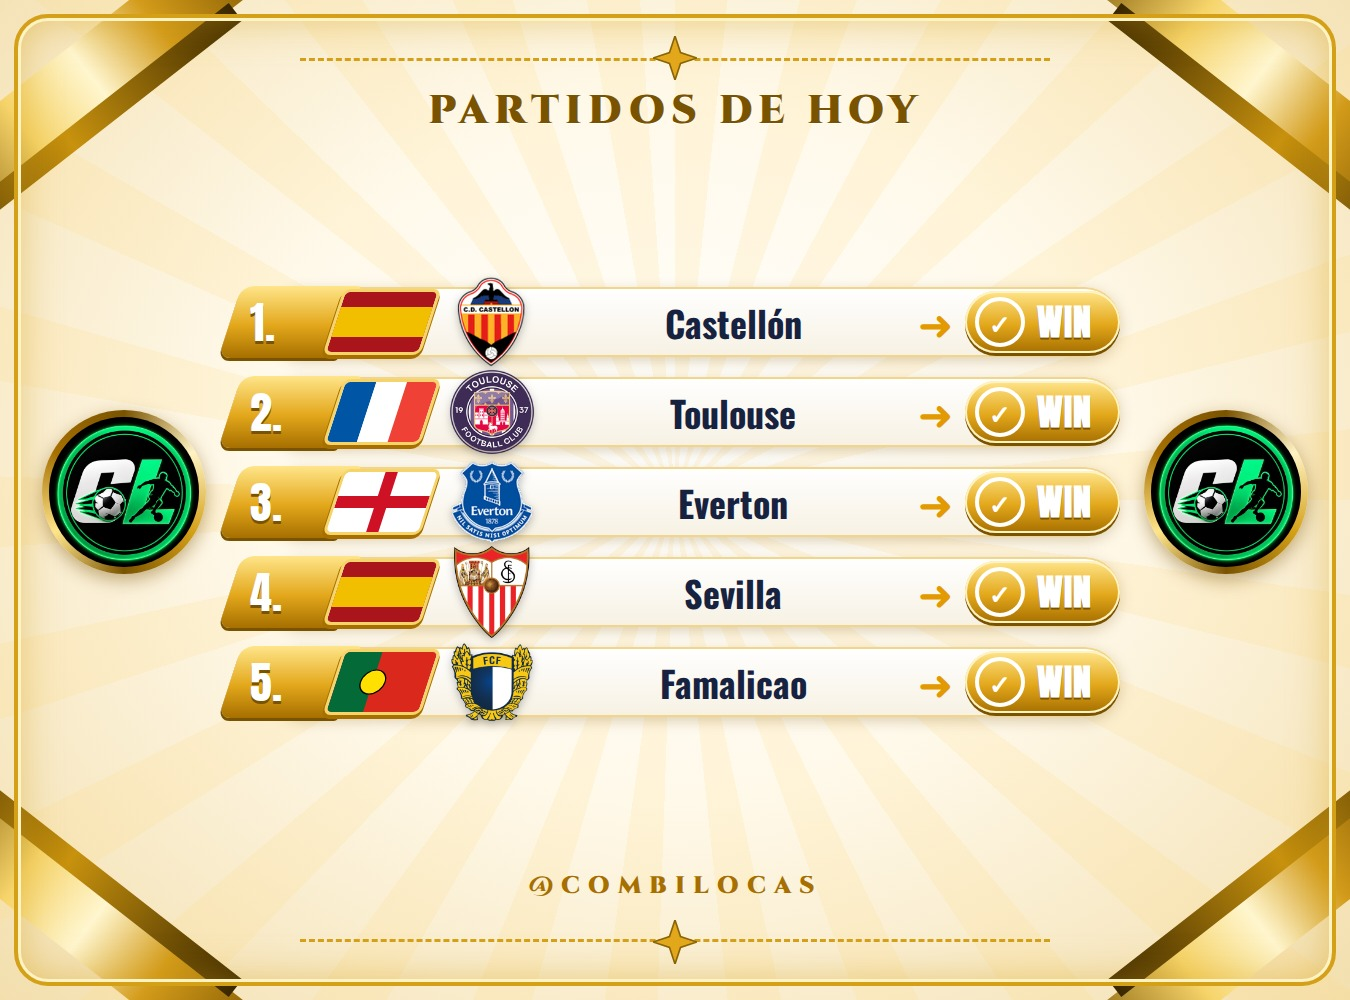
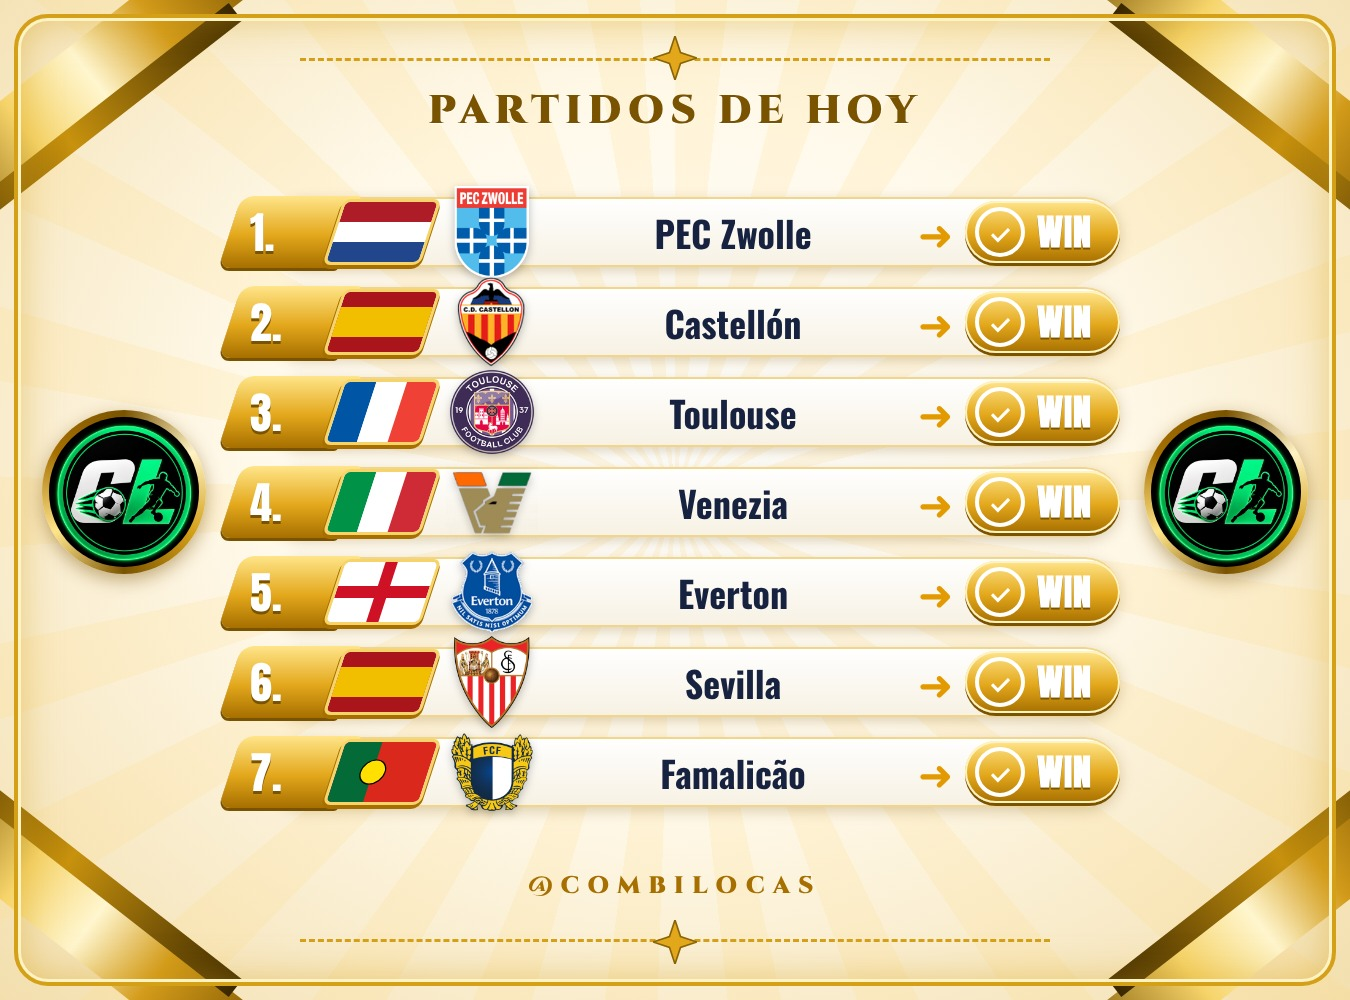
Ganadores WIN del viernes ya (Threads) + escalera: también una sola pata y probabilidad prudente (Gana el Sevilla)
Claude-Session: https://claude.ai/code/session_01H8yo2hvFsocWgiXX8LNWo6

diff --git a/escalera.py b/escalera.py
@@ -39,8 +39,9 @@ PAUSADAS = {"2026-10-29": (140, 141, 143)}
 # mismo que las combis (combis_dia.pool_partido, con todas las lecciones, árbitro y jugadores fijos): solo patas que
 # el bot ve al 68 % o más (ya corregido con lo que acierta de verdad, 01/11), sin córners ni tarjetas, 2 o 3 de partidos distintos y la pareja/trío MÁS PROBABLE.
 SEGURA = {"prob_min": 0.68, "rango": (1.80, 2.40), "patas": (2, 3), "comb_min": 0.50}
+# 06/11: también una sola pata a ≈x2 (sin el filtro de 68 %, que es por pata de pareja): gana la opción que más sale
 # 06/11 (Marcos, opción A: seguir a ≈x2): sin patas con ventaja negativa; si ningún día sale así, como mucho −0,05
-MIN_VENTAJA = [0.0]
+MIN_VENTAJA = [-0.03]   # un pelín negativa (Sevilla −0,02) es empate técnico
 FUERA = ("Corner", "Card", "To Win Either Half", "Over 2.5", "Over 3.5")
 
 
@@ -63,29 +64,41 @@ def elegir_pool_(fecha, prob_min, comb_min):
     ap = leer(DATOS / "aprendizaje.json") or {}
     limite = (datetime.now(MADRID) + timedelta(minutes=40)).strftime("%Y-%m-%dT%H:%M")
     pausadas = PAUSADAS.get(fecha, ())
-    cand = []
+    cand, solas = [], []
     for f in C.EXTRA.glob("*.json"):
         ex = leer(f) or {}
         pa = ex.get("partido")
         if not pa or datetime.fromisoformat(pa["fixture"]["date"]).astimezone(MADRID).strftime("%Y-%m-%d") != fecha:
             continue
+        ya = False
         for p in C.pool_partido(ex, hist, ap):
             k = f"{p['mercado']}|{p['opcion']}"
-            if p["prob_aprendida"] < prob_min or any(x in k for x in FUERA) or p["fecha"] <= limite \
+            if any(x in k for x in FUERA) or p["fecha"] <= limite \
                     or p.get("estimada") or p.get("solo_con_tarjetas") or not C.fijisimo(p) \
                     or p.get("liga_id") in pausadas or es_sin_empate(p["mercado"], p["opcion"]) \
                     or (p.get("ventaja") or 0) < MIN_VENTAJA[0]:   # 06/11 (Marcos): nada que bet365 vea mejor que el bot
                 continue
-            cand.append(p)
-            break   # la mejor de cada partido
+            if SEGURA["rango"][0] <= p["cuota"] <= SEGURA["rango"][1]:
+                solas.append(p)   # 06/11 (Marcos: «Gana el Sevilla» sola salía más que la pareja/trío del bot)
+            if p["prob_aprendida"] < prob_min:
+                continue
+            if not ya:
+                cand.append(p)
+                ya = True   # la mejor de cada partido para las parejas
     cand = sorted(cand, key=lambda p: -p["prob_aprendida"])[:14]
+    # 06/11: probabilidad prudente: ni más de lo que ve el bot ni más de 5 puntos por encima de bet365 (sin margen)
+    # (el bot veía «Gana el Académico Viseu» a 2,35 al 66 % y bet365 al 40 %: no es una escalera segura)
+    prud = lambda p: min(p["prob_aprendida"], 1 / p["cuota"] / 1.05 + 0.05)
     mejor = None
+    for p in solas:
+        if prud(p) >= comb_min and (not mejor or prud(p) > mejor[0]):
+            mejor = (prud(p), [p], round(p["cuota"], 2))
     for n in range(SEGURA["patas"][0], SEGURA["patas"][1] + 1):
         for comb in itertools.combinations(cand, n):
             c = math.prod(p["cuota"] for p in comb)
             if not SEGURA["rango"][0] <= c <= SEGURA["rango"][1]:
                 continue
-            pr = math.prod(p["prob_aprendida"] for p in comb)
+            pr = math.prod(prud(p) for p in comb)
             if pr >= comb_min and (not mejor or pr > mejor[0]):
                 mejor = (pr, list(comb), round(c, 2))
     return mejor
@@ -107,7 +120,7 @@ def elegir(dia, compartir=False, fecha=None):
         if r:
             return r
     # «todos los días tiene que haber escalera» (29/10): se afloja la ventaja poco a poco, y en último caso sin filtro
-    siguiente = {0.0: -0.05, -0.05: -9.0}.get(MIN_VENTAJA[0])
+    siguiente = {-0.03: -0.06, -0.06: -9.0}.get(MIN_VENTAJA[0])
     if siguiente is not None:
         antes, MIN_VENTAJA[0] = MIN_VENTAJA[0], siguiente
         try:

diff --git a/ganadores_win.py b/ganadores_win.py
@@ -25,7 +25,7 @@ CORTO = {"Bayer Leverkusen": "Leverkusen", "AC Milan": "Milan", "NEC Nijmegen": 
          "Atletico Madrid": "Atlético", "Borussia Dortmund": "Dortmund", "Manchester City": "Man City",
          "Manchester United": "Man United", "Inter": "Inter", "Real Betis": "Betis", "AS Roma": "Roma",
          "PSV Eindhoven": "PSV", "SC Freiburg": "Friburgo", "Sporting CP": "Sporting", "RB Leipzig": "Leipzig",
-         "Hamburger SV": "Hamburgo", "Atletico Madrid": "Atlético"}
+         "Hamburger SV": "Hamburgo", "Famalicao": "Famalicão", "Atletico Madrid": "Atlético"}
 
 
 def candidatos(dia, minimo=None):
